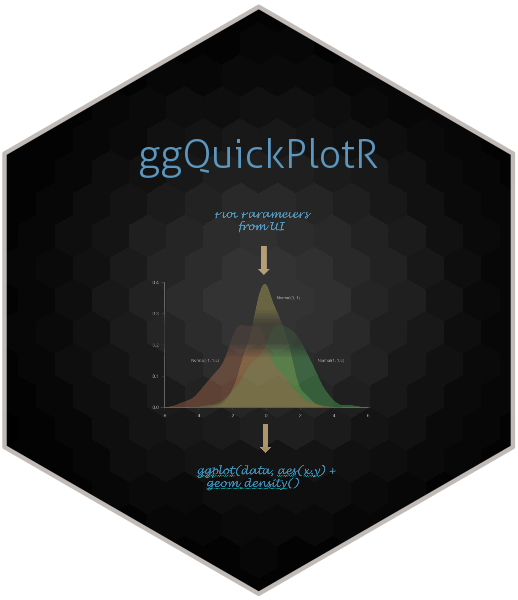
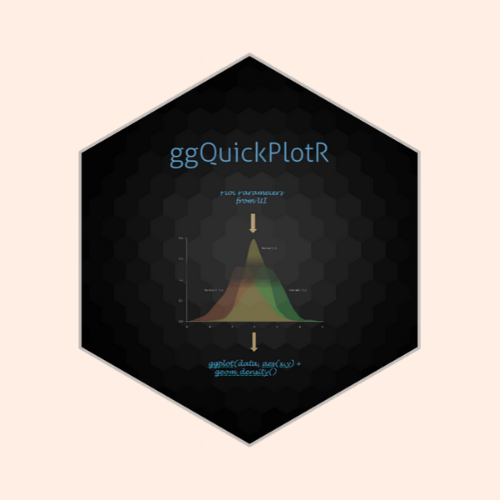
changing omet & ggquickplot

diff --git a/work.html b/work.html
@@ -37,7 +37,7 @@ permalink: /work/
                 <ul id="portfolio-contant-active">
                     <li class="mix Websites">
                       <a href="{{'/OMET' | prepend:site.baseurl}}">
-                        <img src="{{ site.baseurl }}/img/portfolio/1.png" style="width:365px;height:300px;">
+                        <img src="{{ site.baseurl }}/img/portfolio/omet-hex.png" style="width:365px;height:300px;">
                         <div class="overly">
                           <div class="position-center">
                             <h2>Tesla Motors</h2>
@@ -50,7 +50,7 @@ permalink: /work/
                     
                     <li class="mix Websites">
                       <a href="{{'/ggQuickPlotR' | prepend:site.baseurl}}">
-                        <img src="{{ site.baseurl }}/img/portfolio/1.png" style="width:365px;height:300px;">
+                        <img src="{{ site.baseurl }}/img/portfolio/ggQuickPlotR_hex.png" style="width:365px;height:300px;">
                         <div class="overly">
                           <div class="position-center">
                             <h2>Tesla Motors</h2>
